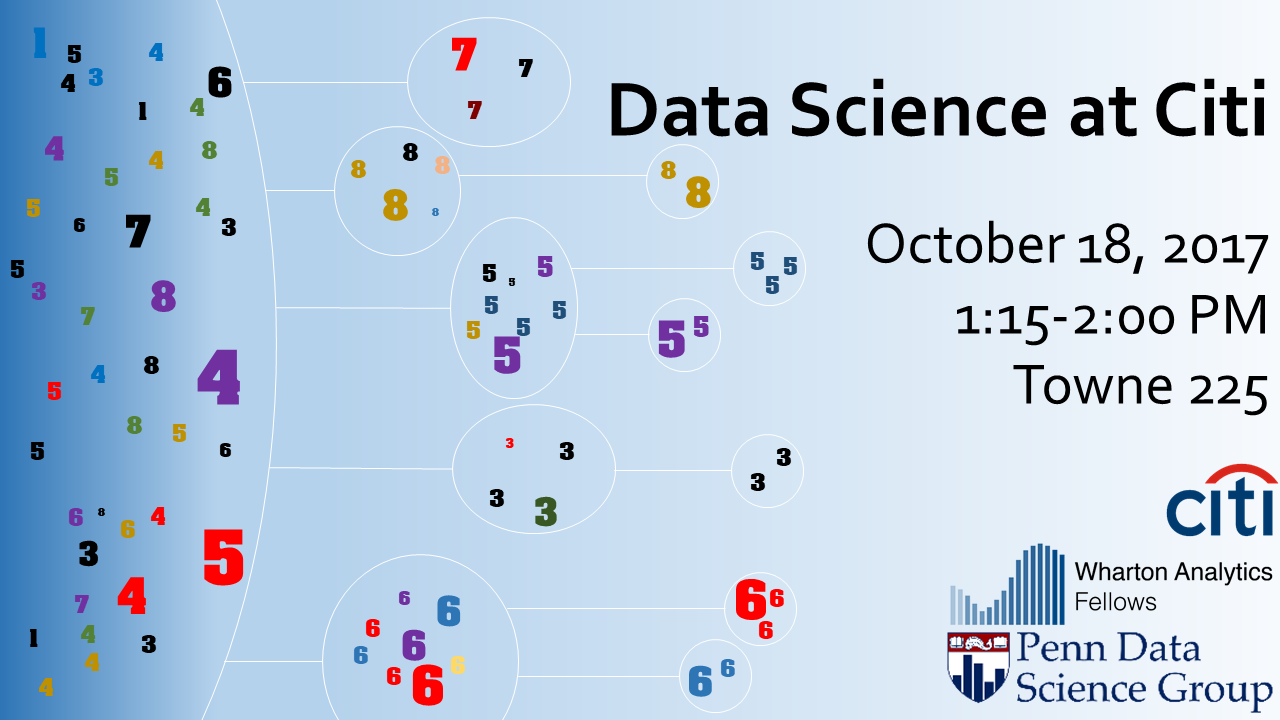
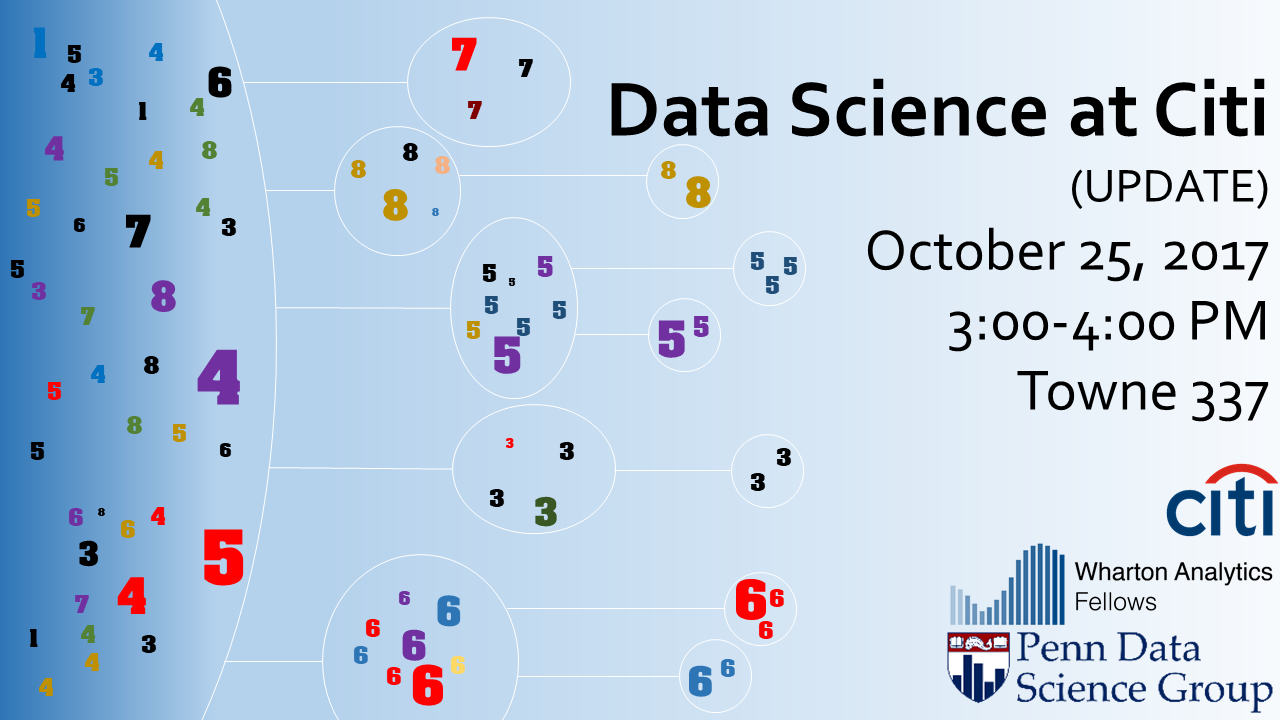
citi event update

Changed region(s): [[0.6562, 0.2139, 1.0, 0.6111]]

diff --git a/events/_posts/2017-10-25-data-science-at-citi.md b/events/_posts/2017-10-25-data-science-at-citi.md
@@ -2,15 +2,15 @@
 layout: event
 title: "Data Science at Citi"
 upcoming: true
-time: "1:15 - 2:00 PM"
-location: <span style='text-decoration:line-through'>Raisler Lounge(Towne 225)</span><span style='color:red'>(cancelled)</span>
+time: "3:00 - 4:00 PM"
+location: Towne 337
 image: "/images/events/data-science-at-citi.png"
 #rsvp: "https://goo.gl/forms/xgnn8J5C3CWPUpF82"
 big_header: false
 description: "Terry Benzschawel, Managing Director of Data Science at Citi, will discuss the role of data science at Citi. Co-hosted with <a href='http://wcai.wharton.upenn.edu/wharton-analytics-fellows-home/'>Wharton Analytics Fellows</a>"
 ---
 
-<span style='color:red'>Please note that this event has been cancelled.</span><br>PDSG and [Wharton Analytics Fellows](http://wcai.wharton.upenn.edu/wharton-analytics-fellows-home/) are co-hosting a talk by Terry Benzschawel, Managing Director of Data Science at Citi, on the role of data science at Citi.
+PDSG and [Wharton Analytics Fellows](http://wcai.wharton.upenn.edu/wharton-analytics-fellows-home/) are co-hosting a talk by Terry Benzschawel, Managing Director of Data Science at Citi, on the role of data science at Citi.
 
 Bio:
 
